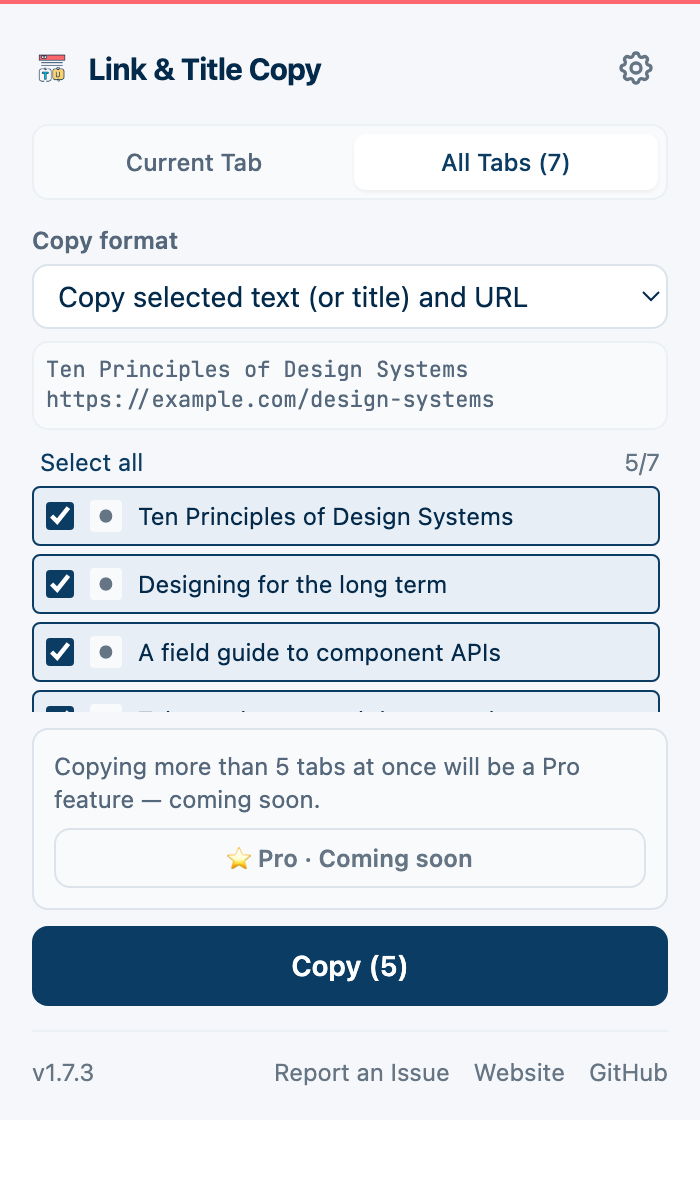
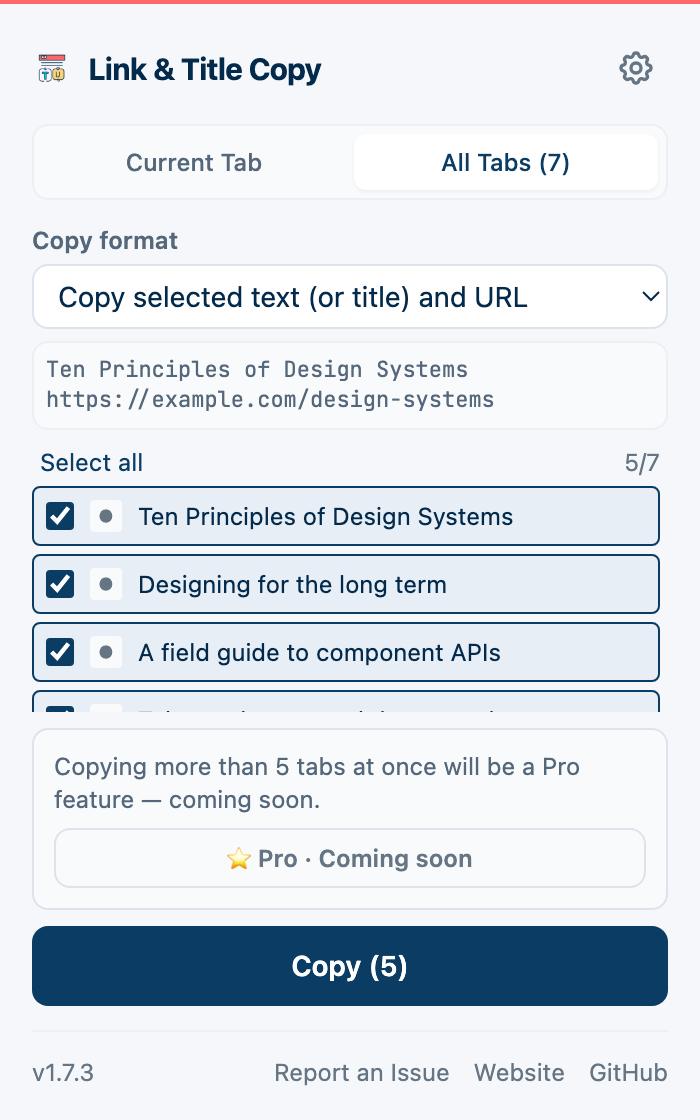
fix(site): make the demo fit any viewport, and show the popup at life size
Two problems from widening the demo. The composition was sized in fixed rem
units that happened to fit the 900px-tall window it was checked against; on a
laptop with a bookmarks bar there is far less room, and the panels ran past the
caption or off the bottom. It now scales with available height — full size when
there is room, down to 0.72 when there isn't — so it cannot outgrow the stage.
Verified down to a 533px usable height: nothing clipped, nothing overlapping.

The popup screenshots were being stretched to fill their column, which blew a
350px-wide window up past life size until it stopped reading as the real thing.
They are shown at the width the popup actually is, and re-captured at its own
560px height so there is no dead space under the footer.

diff --git a/docs/scrollytelling.css b/docs/scrollytelling.css
@@ -69,7 +69,7 @@
   box-shadow: 0 2px 4px rgba(3, 42, 75, 0.05), 0 40px 80px -40px rgba(3, 42, 75, 0.45);
   overflow: hidden;
   opacity: calc(1 - var(--out));
-  transform: translateY(calc(var(--out) * -4vh)) scale(calc(1 - var(--out) * 0.12));
+  transform: translateY(calc(var(--out) * -4vh)) scale(calc((1 - var(--out) * 0.12) * clamp(0.75, (100vh - 13rem) / 27rem, 1)));
   pointer-events: none;
   will-change: opacity, transform;
 }
@@ -167,8 +167,10 @@
   column-gap: 3rem;
   width: min(70rem, 92vw);
   --settle: clamp(0, (var(--p) - 0.6) * 5, 1);
+  /* 1 when there is room, shrinking towards 0.72 as the viewport gets shorter. */
+  --fit: clamp(0.72, (100vh - 15rem) / 31rem, 1);
   opacity: var(--in);
-  transform: translateY(calc((1 - var(--in)) * 20px + (1 - var(--settle)) * 6.5rem)) scale(calc(1 - var(--settle) * 0.1));
+  transform: translateY(calc((1 - var(--in)) * 20px + (1 - var(--settle)) * 6.5rem)) scale(calc((1 - var(--settle) * 0.08) * var(--fit)));
   will-change: opacity, transform;
 }
 /* The lane is a grouping in the markup only; its children are placed straight
@@ -547,9 +549,9 @@
   position: absolute;
   left: 50%;
   transform: translateX(-50%);
-  bottom: 1.8rem;
+  bottom: 1.4rem;
   width: min(46rem, 88vw);
-  min-height: 6rem;
+  min-height: 5.5rem;
   text-align: center;
 }
 .cine-cap {
@@ -884,12 +886,16 @@
   margin-bottom: 2.75rem;
 }
 .shots-grid {
-  display: grid;
-  grid-template-columns: 1fr 1fr;
-  gap: 1.75rem;
-  align-items: start;
+  display: flex;
+  flex-wrap: wrap;
+  justify-content: center;
+  gap: 2.5rem 3rem;
 }
 .shot { margin: 0; }
+/* The popup is 350px wide in the browser. Stretching the capture to fill a
+   column blows it up past life size and it stops reading as the real thing —
+   so it is shown at the size it actually is, and only shrinks below that. */
+.shot-popup { width: 350px; max-width: 100%; }
 .shot img {
   display: block;
   width: 100%;
@@ -905,12 +911,11 @@
   font-size: 0.88rem;
   color: #55677a;
 }
-/* The settings page is wide; it gets the full row rather than being squeezed
-   into a column meant for a 350px popup. */
-.shot-wide { grid-column: 1 / -1; margin-top: 1rem; }
+/* The settings page is genuinely wide; it takes the full row. */
+.shot-wide { width: 100%; margin-top: 1.5rem; }
 
 @media (max-width: 760px) {
-  .shots-grid { grid-template-columns: 1fr; }
+  .shots-grid { gap: 2rem; }
 }
 
 /* Available to assistive tech and crawlers, absent visually. */

diff --git a/docs/hi.html b/docs/hi.html
@@ -455,14 +455,14 @@ example.com/design-systems</span>
         <div class="shots">
             <h2 class="shots-title">असल में ऐसा दिखता है</h2>
             <div class="shots-grid">
-                <figure class="shot">
-                    <img src="images/ui/popup-light.png" width="700" height="1200"
+                <figure class="shot shot-popup">
+                    <img src="images/ui/popup-light.png" width="700" height="1120"
                          loading="lazy" decoding="async"
                          alt="एक्सटेंशन का पॉपअप: तीन कॉपी फ़ॉर्मैट, हर एक के साथ शॉर्टकट और नतीजे का प्रीव्यू">
                     <figcaption>एक क्लिक, या एक शॉर्टकट</figcaption>
                 </figure>
-                <figure class="shot">
-                    <img src="images/ui/popup-batch.png" width="700" height="1200"
+                <figure class="shot shot-popup">
+                    <img src="images/ui/popup-batch.png" width="700" height="1120"
                          loading="lazy" decoding="async"
                          alt="पॉपअप का ऑल टैब्स मोड: खुले टैब की सूची और पाँच चुने हुए">
                     <figcaption>कई टैब एक साथ</figcaption>

diff --git a/docs/ru.html b/docs/ru.html
@@ -455,14 +455,14 @@ example.com/design-systems</span>
         <div class="shots">
             <h2 class="shots-title">Как это выглядит</h2>
             <div class="shots-grid">
-                <figure class="shot">
-                    <img src="images/ui/popup-light.png" width="700" height="1200"
+                <figure class="shot shot-popup">
+                    <img src="images/ui/popup-light.png" width="700" height="1120"
                          loading="lazy" decoding="async"
                          alt="Всплывающее окно расширения: три формата копирования, у каждого сочетание клавиш и предпросмотр результата">
                     <figcaption>Клик или сочетание клавиш</figcaption>
                 </figure>
-                <figure class="shot">
-                    <img src="images/ui/popup-batch.png" width="700" height="1200"
+                <figure class="shot shot-popup">
+                    <img src="images/ui/popup-batch.png" width="700" height="1120"
                          loading="lazy" decoding="async"
                          alt="Всплывающее окно в режиме всех вкладок: открытые вкладки со списком, пять выбраны">
                     <figcaption>Несколько вкладок разом</figcaption>

diff --git a/docs/ja.html b/docs/ja.html
@@ -455,14 +455,14 @@ example.com/design-systems</span>
         <div class="shots">
             <h2 class="shots-title">入れるとこうなります</h2>
             <div class="shots-grid">
-                <figure class="shot">
-                    <img src="images/ui/popup-light.png" width="700" height="1200"
+                <figure class="shot shot-popup">
+                    <img src="images/ui/popup-light.png" width="700" height="1120"
                          loading="lazy" decoding="async"
                          alt="拡張機能のポップアップ。3つのコピー書式が並び、それぞれにショートカットと結果のプレビューが付く">
                     <figcaption>クリック、またはショートカット</figcaption>
                 </figure>
-                <figure class="shot">
-                    <img src="images/ui/popup-batch.png" width="700" height="1200"
+                <figure class="shot shot-popup">
+                    <img src="images/ui/popup-batch.png" width="700" height="1120"
                          loading="lazy" decoding="async"
                          alt="ポップアップの全タブ表示。開いているタブが並び、5件が選択されている">
                     <figcaption>複数タブをまとめて</figcaption>

diff --git a/docs/ko.html b/docs/ko.html
@@ -455,14 +455,14 @@ example.com/design-systems</span>
         <div class="shots">
             <h2 class="shots-title">실제 모습입니다</h2>
             <div class="shots-grid">
-                <figure class="shot">
-                    <img src="images/ui/popup-light.png" width="700" height="1200"
+                <figure class="shot shot-popup">
+                    <img src="images/ui/popup-light.png" width="700" height="1120"
                          loading="lazy" decoding="async"
                          alt="확장 프로그램 팝업. 세 가지 복사 형식이 각각 단축키와 결과 미리보기와 함께 표시됨">
                     <figcaption>클릭 한 번, 또는 단축키 하나</figcaption>
                 </figure>
-                <figure class="shot">
-                    <img src="images/ui/popup-batch.png" width="700" height="1200"
+                <figure class="shot shot-popup">
+                    <img src="images/ui/popup-batch.png" width="700" height="1120"
                          loading="lazy" decoding="async"
                          alt="팝업의 모든 탭 모드. 열린 탭 목록에서 다섯 개가 선택됨">
                     <figcaption>여러 탭을 한 번에</figcaption>

diff --git a/docs/index.html b/docs/index.html
@@ -455,14 +455,14 @@ example.com/design-systems</span>
         <div class="shots">
             <h2 class="shots-title">What you actually get</h2>
             <div class="shots-grid">
-                <figure class="shot">
-                    <img src="images/ui/popup-light.png" width="700" height="1200"
+                <figure class="shot shot-popup">
+                    <img src="images/ui/popup-light.png" width="700" height="1120"
                          loading="lazy" decoding="async"
                          alt="The extension popup listing three copy formats, each with its keyboard shortcut and a preview of the result">
                     <figcaption>One click, or one keystroke</figcaption>
                 </figure>
-                <figure class="shot">
-                    <img src="images/ui/popup-batch.png" width="700" height="1200"
+                <figure class="shot shot-popup">
+                    <img src="images/ui/popup-batch.png" width="700" height="1120"
                          loading="lazy" decoding="async"
                          alt="The popup in All Tabs mode, with open tabs listed and five selected ready to copy">
                     <figcaption>Several tabs in one go</figcaption>

diff --git a/docs/zh-TW.html b/docs/zh-TW.html
@@ -455,14 +455,14 @@ example.com/design-systems</span>
         <div class="shots">
             <h2 class="shots-title">裝上之後長這樣</h2>
             <div class="shots-grid">
-                <figure class="shot">
-                    <img src="images/ui/popup-light.png" width="700" height="1200"
+                <figure class="shot shot-popup">
+                    <img src="images/ui/popup-light.png" width="700" height="1120"
                          loading="lazy" decoding="async"
                          alt="擴充功能彈出視窗，列出三種複製格式，每種都帶快捷鍵和結果預覽">
                     <figcaption>點一下，或按一個快捷鍵</figcaption>
                 </figure>
-                <figure class="shot">
-                    <img src="images/ui/popup-batch.png" width="700" height="1200"
+                <figure class="shot shot-popup">
+                    <img src="images/ui/popup-batch.png" width="700" height="1120"
                          loading="lazy" decoding="async"
                          alt="彈出視窗的全部分頁模式，列出已開啟的分頁並勾選了五條">
                     <figcaption>多個分頁一次帶走</figcaption>

diff --git a/docs/de.html b/docs/de.html
@@ -455,14 +455,14 @@ example.com/design-systems</span>
         <div class="shots">
             <h2 class="shots-title">So sieht es aus</h2>
             <div class="shots-grid">
-                <figure class="shot">
-                    <img src="images/ui/popup-light.png" width="700" height="1200"
+                <figure class="shot shot-popup">
+                    <img src="images/ui/popup-light.png" width="700" height="1120"
                          loading="lazy" decoding="async"
                          alt="Das Popup der Erweiterung mit drei Kopierformaten, jeweils mit Tastenkürzel und Vorschau des Ergebnisses">
                     <figcaption>Ein Klick oder ein Tastendruck</figcaption>
                 </figure>
-                <figure class="shot">
-                    <img src="images/ui/popup-batch.png" width="700" height="1200"
+                <figure class="shot shot-popup">
+                    <img src="images/ui/popup-batch.png" width="700" height="1120"
                          loading="lazy" decoding="async"
                          alt="Das Popup im Alle-Tabs-Modus mit offenen Tabs und fünf ausgewählten">
                     <figcaption>Mehrere Tabs auf einmal</figcaption>

diff --git a/docs/es.html b/docs/es.html
@@ -455,14 +455,14 @@ example.com/design-systems</span>
         <div class="shots">
             <h2 class="shots-title">Así se ve de verdad</h2>
             <div class="shots-grid">
-                <figure class="shot">
-                    <img src="images/ui/popup-light.png" width="700" height="1200"
+                <figure class="shot shot-popup">
+                    <img src="images/ui/popup-light.png" width="700" height="1120"
                          loading="lazy" decoding="async"
                          alt="La ventana emergente con tres formatos de copia, cada uno con su atajo y una vista previa del resultado">
                     <figcaption>Un clic, o un atajo</figcaption>
                 </figure>
-                <figure class="shot">
-                    <img src="images/ui/popup-batch.png" width="700" height="1200"
+                <figure class="shot shot-popup">
+                    <img src="images/ui/popup-batch.png" width="700" height="1120"
                          loading="lazy" decoding="async"
                          alt="La ventana emergente en modo Todas las pestañas, con cinco seleccionadas">
                     <figcaption>Varias pestañas de una vez</figcaption>

diff --git a/docs/zh.html b/docs/zh.html
@@ -455,14 +455,14 @@ example.com/design-systems</span>
         <div class="shots">
             <h2 class="shots-title">装上之后长这样</h2>
             <div class="shots-grid">
-                <figure class="shot">
-                    <img src="images/ui/popup-light.png" width="700" height="1200"
+                <figure class="shot shot-popup">
+                    <img src="images/ui/popup-light.png" width="700" height="1120"
                          loading="lazy" decoding="async"
                          alt="扩展弹窗，列出三种复制格式，每种都带快捷键和结果预览">
                     <figcaption>点一下，或按一个快捷键</figcaption>
                 </figure>
-                <figure class="shot">
-                    <img src="images/ui/popup-batch.png" width="700" height="1200"
+                <figure class="shot shot-popup">
+                    <img src="images/ui/popup-batch.png" width="700" height="1120"
                          loading="lazy" decoding="async"
                          alt="弹窗的全部标签页模式，列出已打开的标签页并勾选了五条">
                     <figcaption>多个标签页一次带走</figcaption>

diff --git a/docs/template.html b/docs/template.html
@@ -417,14 +417,14 @@
         <div class="shots">
             <h2 class="shots-title">{{shots.shotsTitle}}</h2>
             <div class="shots-grid">
-                <figure class="shot">
-                    <img src="images/ui/popup-light.png" width="700" height="1200"
+                <figure class="shot shot-popup">
+                    <img src="images/ui/popup-light.png" width="700" height="1120"
                          loading="lazy" decoding="async"
                          alt="{{shots.popupAlt}}">
                     <figcaption>{{shots.popupCap}}</figcaption>
                 </figure>
-                <figure class="shot">
-                    <img src="images/ui/popup-batch.png" width="700" height="1200"
+                <figure class="shot shot-popup">
+                    <img src="images/ui/popup-batch.png" width="700" height="1120"
                          loading="lazy" decoding="async"
                          alt="{{shots.batchAlt}}">
                     <figcaption>{{shots.batchCap}}</figcaption>
